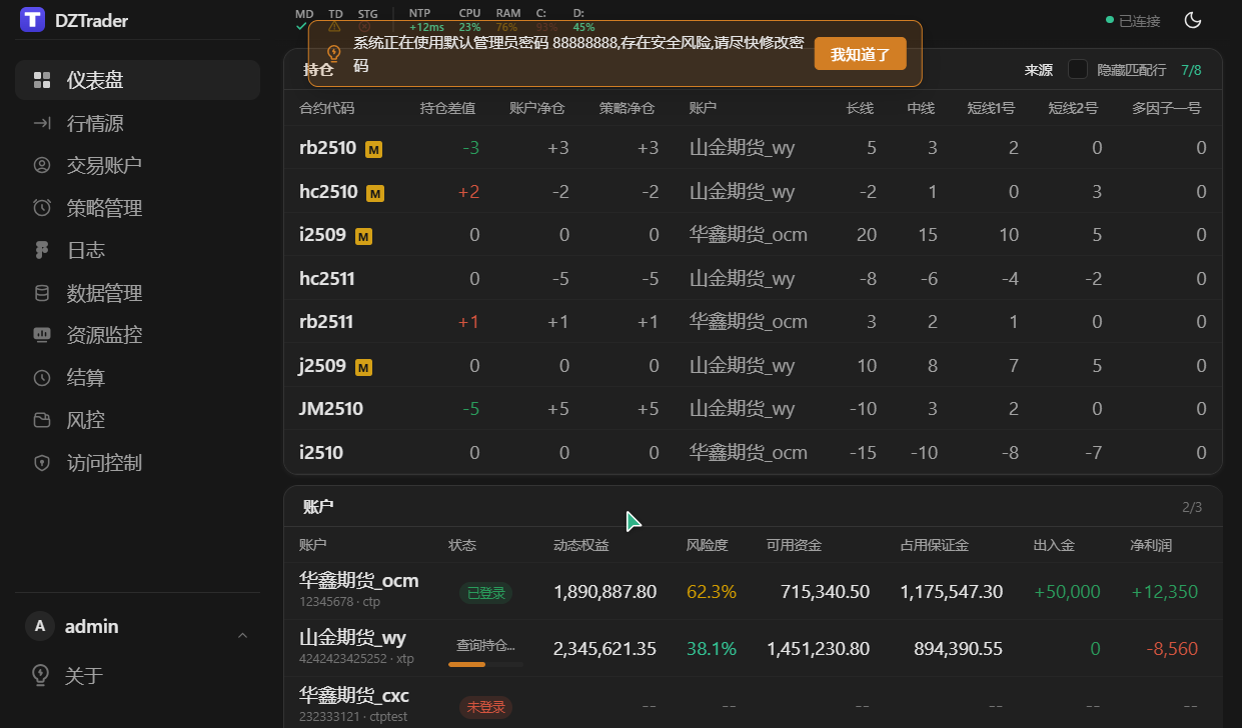
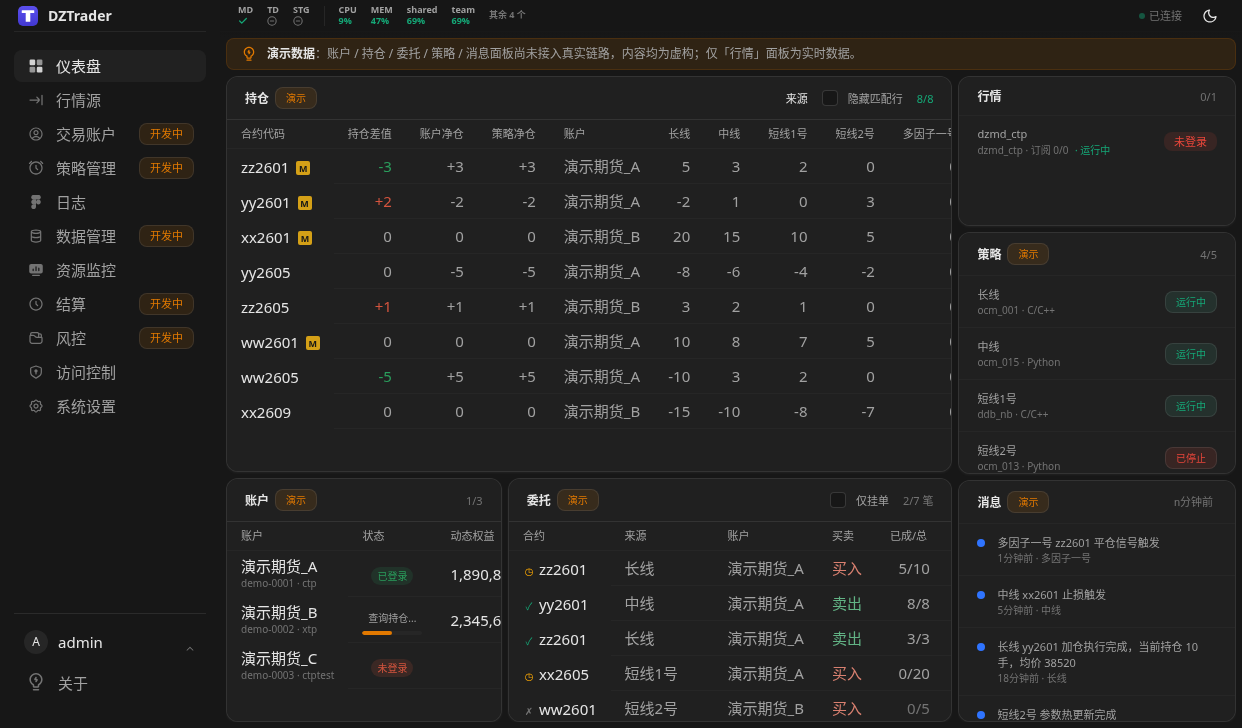
fix(webui): 仪表盘演示数据标识与聚合数自洽（#200）
仪表盘五个面板（账户 / 持仓 / 委托 / 策略 / 消息）仍使用原型 mock 数据，
但页面没有任何演示标识，且聚合数与展示行互相矛盾，容易被误读为真实账户：

- 首屏常驻「演示数据」横幅，五个面板标题各带「演示」标签；行情面板是真实
  数据，不标注
- 券商名改虚构（演示期货_A/B/C）、账户号改 demo-*、合约代码改 zz/yy/xx/ww
  等虚构代码，不再出现真实期货公司与真实合约
- 聚合数一律由行数据派生：账户 2/3→1/3、持仓 7/8→8/8、委托 2/12→2/7、
  策略 5/5→4/5（与「1 已停止」一致），底部汇总同源派生
- README 仪表盘截图更新为带演示横幅的版本，图注标明演示数据

补齐 DashboardView.spec.ts：断言演示横幅与逐面板标识、真实券商/合约不出现、
五个聚合数与展示行自洽。

Refs: #200, #6（真实数据接线另立 spec）

diff --git a/apps/webui/frontend/src/views/DashboardView.vue b/apps/webui/frontend/src/views/DashboardView.vue
@@ -1,6 +1,7 @@
 <script setup lang="ts">
 import { ref, computed, onUnmounted, type Ref } from 'vue'
 import StatusIndicator from '@/components/shared/StatusIndicator.vue'
+import Icon from '@/components/shared/Icon.vue'
 import { processStateText, processStateColor } from '@/composables/useProcessState'
 import { useMarketSourcesStore } from '@/stores/marketSources'
 
@@ -75,35 +76,42 @@ interface MessageRow {
   source: string
 }
 
-// === Mock data (from main.html prototype) ===
+// === 演示数据（issue #200）===
+// 账户 / 持仓 / 委托 / 策略 / 消息五个面板的交易数据链路尚未建立
+// （见 issue #6：TdDataService 未暴露 REST/WS）。此处保留原型布局，
+// 但满足三条约束：
+//   1) 页面永久可见地标注「演示数据」（横幅 + 逐面板 ds-tag）；
+//   2) 券商名 / 账户号 / 合约代码全部虚构，不得与真实期货公司或真实合约撞名；
+//   3) 面板聚合数一律由下列行数据计算，禁止硬编码（历史版本存在 2/3、5/5 等矛盾数字）。
+// 接入真实数据后本块整体删除（另立 spec 票承接）。
 const strategyNames = ['长线', '中线', '短线1号', '短线2号', '多因子一号']
 
 const positions: PositionRow[] = [
-  { code: 'rb2510', isMain: true, diff: -3, netPos: 3, stratNet: 3, account: '山金期货_wy', strategies: [5, 3, 2, 0, 0] },
-  { code: 'hc2510', isMain: true, diff: 2, netPos: -2, stratNet: -2, account: '山金期货_wy', strategies: [-2, 1, 0, 3, 0] },
-  { code: 'i2509', isMain: true, diff: 0, netPos: 0, stratNet: 0, account: '华鑫期货_ocm', strategies: [20, 15, 10, 5, 0] },
-  { code: 'hc2511', isMain: false, diff: 0, netPos: -5, stratNet: -5, account: '山金期货_wy', strategies: [-8, -6, -4, -2, 0] },
-  { code: 'rb2511', isMain: false, diff: 1, netPos: 1, stratNet: 1, account: '华鑫期货_ocm', strategies: [3, 2, 1, 0, 0] },
-  { code: 'j2509', isMain: true, diff: 0, netPos: 0, stratNet: 0, account: '山金期货_wy', strategies: [10, 8, 7, 5, 0] },
-  { code: 'JM2510', isMain: false, diff: -5, netPos: 5, stratNet: 5, account: '山金期货_wy', strategies: [-10, 3, 2, 0, 0] },
-  { code: 'i2510', isMain: false, diff: 0, netPos: 0, stratNet: 0, account: '华鑫期货_ocm', strategies: [-15, -10, -8, -7, 0] },
+  { code: 'zz2601', isMain: true, diff: -3, netPos: 3, stratNet: 3, account: '演示期货_A', strategies: [5, 3, 2, 0, 0] },
+  { code: 'yy2601', isMain: true, diff: 2, netPos: -2, stratNet: -2, account: '演示期货_A', strategies: [-2, 1, 0, 3, 0] },
+  { code: 'xx2601', isMain: true, diff: 0, netPos: 0, stratNet: 0, account: '演示期货_B', strategies: [20, 15, 10, 5, 0] },
+  { code: 'yy2605', isMain: false, diff: 0, netPos: -5, stratNet: -5, account: '演示期货_A', strategies: [-8, -6, -4, -2, 0] },
+  { code: 'zz2605', isMain: false, diff: 1, netPos: 1, stratNet: 1, account: '演示期货_B', strategies: [3, 2, 1, 0, 0] },
+  { code: 'ww2601', isMain: true, diff: 0, netPos: 0, stratNet: 0, account: '演示期货_A', strategies: [10, 8, 7, 5, 0] },
+  { code: 'ww2605', isMain: false, diff: -5, netPos: 5, stratNet: 5, account: '演示期货_A', strategies: [-10, 3, 2, 0, 0] },
+  { code: 'xx2609', isMain: false, diff: 0, netPos: 0, stratNet: 0, account: '演示期货_B', strategies: [-15, -10, -8, -7, 0] },
 ]
 
 const accounts: AccountRow[] = [
   {
-    name: '华鑫期货_ocm', sub: '12345678 · ctp', status: 'logged-in', loadingText: '',
+    name: '演示期货_A', sub: 'demo-0001 · ctp', status: 'logged-in', loadingText: '',
     equity: '1,890,887.80', risk: '62.3%', riskColor: 'var(--status-alert-default)',
     available: '715,340.50', margin: '1,175,547.30', deposit: '+50,000', profit: '+12,350',
     profitColor: '#2a9d5c', fee: '1,230.50',
   },
   {
-    name: '山金期货_wy', sub: '4242423425252 · xtp', status: 'loading', loadingText: '查询持仓...',
+    name: '演示期货_B', sub: 'demo-0002 · xtp', status: 'loading', loadingText: '查询持仓...',
     equity: '2,345,621.35', risk: '38.1%', riskColor: 'var(--status-success-default)',
     available: '1,451,230.80', margin: '894,390.55', deposit: '0', profit: '-8,560',
     profitColor: '#d4543e', fee: '3,560.20',
   },
   {
-    name: '华鑫期货_cxc', sub: '232333121 · ctptest', status: 'logged-out', loadingText: '',
+    name: '演示期货_C', sub: 'demo-0003 · ctptest', status: 'logged-out', loadingText: '',
     equity: '--', risk: '--', riskColor: 'var(--text-tertiary)',
     available: '--', margin: '--', deposit: '--', profit: '--',
     profitColor: 'var(--text-tertiary)', fee: '--',
@@ -111,13 +119,13 @@ const accounts: AccountRow[] = [
 ]
 
 const orders: OrderRow[] = [
-  { contract: 'rb2510', icon: 'pending', source: '长线', account: '华鑫期货_ocm', direction: 'buy', filled: '5/10', price: '3,680', avgPrice: '3,682', time: '14:05:23', tagText: '部分成交', tagClass: 'ds-tag--alert', rowClass: '' },
-  { contract: 'hc2510', icon: 'filled', source: '中线', account: '山金期货_wy', direction: 'sell', filled: '8/8', price: '3,915', avgPrice: '3,915', time: '14:03:12', tagText: '全部成交', tagClass: 'ds-tag--success', rowClass: '' },
-  { contract: 'rb2510', icon: 'filled', source: '长线', account: '华鑫期货_ocm', direction: 'sell', filled: '3/3', price: '3,695', avgPrice: '3,694', time: '14:01:45', tagText: '全部成交', tagClass: 'ds-tag--success', rowClass: '' },
-  { contract: 'i2609', icon: 'pending', source: '短线1号', account: '山金期货_wy', direction: 'buy', filled: '0/20', price: '785.5', avgPrice: '--', time: '13:58:30', tagText: '未成交', tagClass: '', rowClass: '' },
-  { contract: 'hc2501', icon: 'cancelled', source: '短线2号', account: '华鑫期货_ocm', direction: 'buy', filled: '0/5', price: '3,720', avgPrice: '--', time: '13:50:22', tagText: '已撤单', tagClass: '', rowClass: 'order-row--cancelled' },
-  { contract: 'j2601', icon: 'rejected', source: '多因子一号', account: '山金期货_wy', direction: 'sell', filled: '0/10', price: '2,350', avgPrice: '--', time: '13:45:10', tagText: '废单', tagClass: 'ds-tag--danger', rowClass: 'order-row--rejected' },
-  { contract: 'hc2510', icon: 'filled', source: '多因子一号', account: '华鑫期货_ocm', direction: 'buy', filled: '10/10', price: '3,908', avgPrice: '3,907', time: '13:55:18', tagText: '全部成交', tagClass: 'ds-tag--success', rowClass: '' },
+  { contract: 'zz2601', icon: 'pending', source: '长线', account: '演示期货_A', direction: 'buy', filled: '5/10', price: '3,680', avgPrice: '3,682', time: '14:05:23', tagText: '部分成交', tagClass: 'ds-tag--alert', rowClass: '' },
+  { contract: 'yy2601', icon: 'filled', source: '中线', account: '演示期货_A', direction: 'sell', filled: '8/8', price: '3,915', avgPrice: '3,915', time: '14:03:12', tagText: '全部成交', tagClass: 'ds-tag--success', rowClass: '' },
+  { contract: 'zz2601', icon: 'filled', source: '长线', account: '演示期货_A', direction: 'sell', filled: '3/3', price: '3,695', avgPrice: '3,694', time: '14:01:45', tagText: '全部成交', tagClass: 'ds-tag--success', rowClass: '' },
+  { contract: 'xx2605', icon: 'pending', source: '短线1号', account: '演示期货_A', direction: 'buy', filled: '0/20', price: '785.5', avgPrice: '--', time: '13:58:30', tagText: '未成交', tagClass: '', rowClass: '' },
+  { contract: 'ww2601', icon: 'cancelled', source: '短线2号', account: '演示期货_B', direction: 'buy', filled: '0/5', price: '3,720', avgPrice: '--', time: '13:50:22', tagText: '已撤单', tagClass: '', rowClass: 'order-row--cancelled' },
+  { contract: 'ww2605', icon: 'rejected', source: '多因子一号', account: '演示期货_A', direction: 'sell', filled: '0/10', price: '2,350', avgPrice: '--', time: '13:45:10', tagText: '废单', tagClass: 'ds-tag--danger', rowClass: 'order-row--rejected' },
+  { contract: 'yy2601', icon: 'filled', source: '多因子一号', account: '演示期货_B', direction: 'buy', filled: '10/10', price: '3,908', avgPrice: '3,907', time: '13:55:18', tagText: '全部成交', tagClass: 'ds-tag--success', rowClass: '' },
 ]
 
 const strategyList: StrategyRow[] = [
@@ -129,16 +137,37 @@ const strategyList: StrategyRow[] = [
 ]
 
 const messages: MessageRow[] = [
-  { level: 'info', text: '多因子一号 rb2510 平仓信号触发', time: '1分钟前', source: '多因子一号' },
-  { level: 'info', text: '中线 i2509 止损触发', time: '5分钟前', source: '中线' },
-  { level: 'info', text: '长线 hc2510 加仓执行完成，当前持仓 10 手，均价 38520', time: '18分钟前', source: '长线' },
+  { level: 'info', text: '多因子一号 zz2601 平仓信号触发', time: '1分钟前', source: '多因子一号' },
+  { level: 'info', text: '中线 xx2601 止损触发', time: '5分钟前', source: '中线' },
+  { level: 'info', text: '长线 yy2601 加仓执行完成，当前持仓 10 手，均价 38520', time: '18分钟前', source: '长线' },
   { level: 'info', text: '短线2号 参数热更新完成', time: '32分钟前', source: '短线2号' },
   { level: 'warning', text: '行情源 CTP 断线重连成功，已补发 12 笔行情快照', time: '1小时前', source: 'md_ctp' },
-  { level: 'error', text: '螺纹钢套利 rb2510 订单被拒：超出可开仓手数限制', time: '2小时前', source: '短线1号' },
+  { level: 'error', text: '演示品种套利 zz2601 订单被拒：超出可开仓手数限制', time: '2小时前', source: '短线1号' },
   { level: 'info', text: '账户权益更新', time: '3小时前', source: 'account_ctp' },
   { level: 'warning', text: '期货备用登录超时，30秒后重试', time: '5小时前', source: 'account_ctp' },
-  { level: 'info', text: '短线1号 JM2510 开仓，方向：空，手数：5，委托价 1580', time: '6小时前', source: '短线1号' },
+  { level: 'info', text: '短线1号 ww2605 开仓，方向：空，手数：5，委托价 1580', time: '6小时前', source: '短线1号' },
 ]
+
+// === 面板聚合数：一律由上面的演示行计算（issue #200）===
+// 历史版本硬编码 2/3、7/8、2/12、5/5 与展示行互相矛盾；此处改为派生，
+// 行数据变化时聚合数自动跟随，不可能再漂移。
+const accountAggregate = computed(
+  () => `${accounts.filter(a => a.status === 'logged-in').length}/${accounts.length}`,
+)
+// 「隐藏匹配行」筛选尚未实现：无行被隐藏，命中数恒等于总行数
+const matchedPositionCount = computed(() => positions.length)
+const positionAggregate = computed(
+  () => `${matchedPositionCount.value}/${positions.length}`,
+)
+const ordersAggregate = computed(
+  () => `${orders.filter(o => o.icon === 'pending').length}/${orders.length} 笔`,
+)
+const strategyAggregate = computed(
+  () => `${strategyList.filter(s => s.running).length}/${strategyList.length}`,
+)
+const strategyFooter = computed(
+  () => `总计: ${strategyList.length} 已加载, ${strategyList.filter(s => !s.running).length} 已停止`,
+)
 
 // === Splitter state (flex-grow values) ===
 const leftFlex = ref(1)
@@ -285,24 +314,43 @@ onUnmounted(() => {
         flex: 1,
         display: 'grid',
         gridTemplateColumns: `minmax(300px, ${leftFlex}fr) 6px minmax(200px, ${rightFlex}fr)`,
+        gridTemplateRows: 'auto minmax(0, 1fr)',
         overflow: 'hidden',
         padding: '6px',
         columnGap: '0',
+        rowGap: 'var(--spacer-6)',
       }"
     >
+      <!-- 演示数据横幅（issue #200）：首屏永久可见，与是否滚动 / 展开无关。
+           五个面板的交易数据链路尚未建立（issue #6），横幅是读者第一眼就应看到的事实声明，
+           不得改为可关闭 banner 或仅靠图注。仪表盘锁一屏高度，故压成单行紧凑条。 -->
+      <div
+        class="ds-alert ds-alert--warning dashboard-demo-banner"
+        data-test="dashboard-demo-banner"
+        role="status"
+      >
+        <span class="ds-alert__icon"><Icon name="Tips" :size="16" /></span>
+        <span class="dashboard-demo-banner__text">
+          <strong>演示数据</strong>：账户 / 持仓 / 委托 / 策略 / 消息面板尚未接入真实链路，内容均为虚构；仅「行情」面板为实时数据。
+        </span>
+      </div>
+
       <!-- Left Panel -->
       <div ref="leftPanelEl" class="dashboard-left-panel" :style="{ display: 'flex', flexDirection: 'column', overflow: 'hidden', minWidth: 0 }">
 
         <!-- Position Monitor -->
         <div class="dashboard-panel dashboard-panel--position" :style="{ flex: `${positionFlex} 1 0%`, minHeight: '120px', display: 'flex', flexDirection: 'column', overflow: 'hidden' }">
           <div :style="{ display: 'flex', alignItems: 'center', justifyContent: 'space-between', padding: 'var(--spacer-8) var(--spacer-16)', background: 'var(--bg-card)', borderBottom: '1px solid var(--border-neutral-l1)', flexShrink: 0 }">
-            <span :style="{ fontSize: 'var(--body-sm-font-size)', fontWeight: 'var(--font-weight-strong)', color: 'var(--text-default)' }">持仓</span>
+            <span :style="{ display: 'flex', alignItems: 'center', gap: 'var(--spacer-6)' }">
+              <span :style="{ fontSize: 'var(--body-sm-font-size)', fontWeight: 'var(--font-weight-strong)', color: 'var(--text-default)' }">持仓</span>
+              <span class="ds-tag ds-tag--warning" data-test="dashboard-demo-tag" :style="{ fontSize: '10px' }">演示</span>
+            </span>
             <div :style="{ display: 'flex', alignItems: 'center', gap: 'var(--spacer-12)', fontSize: 'var(--body-xs-font-size)' }">
               <span class="filter-dropdown__trigger" :style="{ cursor: 'pointer' }">来源</span>
               <label class="ds-check" :style="{ minHeight: 'auto', fontSize: 'var(--body-xs-font-size)', color: 'var(--text-secondary)' }">
                 <input type="checkbox"><span class="ds-check__box"></span> 隐藏匹配行
               </label>
-              <span :style="{ fontSize: 'var(--body-xs-font-size)', fontVariantNumeric: 'tabular-nums', color: 'var(--status-success-default)', cursor: 'default' }" title="匹配持仓数/总持仓数">7/8</span>
+              <span data-test="position-aggregate" :style="{ fontSize: 'var(--body-xs-font-size)', fontVariantNumeric: 'tabular-nums', color: 'var(--status-success-default)', cursor: 'default' }" title="匹配持仓数/总持仓数">{{ positionAggregate }}</span>
             </div>
           </div>
           <div class="auto-scroll" :style="{ flex: 1, overflow: 'auto', padding: 0 }">
@@ -343,8 +391,11 @@ onUnmounted(() => {
           <!-- Account Overview -->
           <div class="dashboard-panel dashboard-panel--account" :style="{ flex: `${accountFlex} 1 0%`, minWidth: '150px', minHeight: '100px', display: 'flex', flexDirection: 'column', overflow: 'hidden' }">
             <div :style="{ display: 'flex', alignItems: 'center', justifyContent: 'space-between', padding: 'var(--spacer-8) var(--spacer-16)', background: 'var(--bg-card)', borderBottom: '1px solid var(--border-neutral-l1)', flexShrink: 0 }">
-              <span :style="{ fontSize: 'var(--body-sm-font-size)', fontWeight: 'var(--font-weight-strong)', color: 'var(--text-default)' }">账户</span>
-              <span :style="{ fontSize: 'var(--body-xs-font-size)', fontVariantNumeric: 'tabular-nums', color: 'var(--text-tertiary)' }" title="已登录账户/总账户">2/3</span>
+              <span :style="{ display: 'flex', alignItems: 'center', gap: 'var(--spacer-6)' }">
+                <span :style="{ fontSize: 'var(--body-sm-font-size)', fontWeight: 'var(--font-weight-strong)', color: 'var(--text-default)' }">账户</span>
+                <span class="ds-tag ds-tag--warning" data-test="dashboard-demo-tag" :style="{ fontSize: '10px' }">演示</span>
+              </span>
+              <span data-test="account-aggregate" :style="{ fontSize: 'var(--body-xs-font-size)', fontVariantNumeric: 'tabular-nums', color: 'var(--text-tertiary)' }" title="已登录账户/总账户">{{ accountAggregate }}</span>
             </div>
             <div class="auto-scroll" :style="{ flex: 1, overflow: 'auto' }">
               <table class="ds-table ds-table--normal" :style="{ width: '100%', tableLayout: 'auto', whiteSpace: 'nowrap' }">
@@ -394,12 +445,15 @@ onUnmounted(() => {
           <!-- Orders -->
           <div class="dashboard-panel dashboard-panel--orders" :style="{ flex: `${orderFlex} 1 0%`, minWidth: '150px', minHeight: '100px', display: 'flex', flexDirection: 'column', overflow: 'hidden' }">
             <div :style="{ display: 'flex', alignItems: 'center', justifyContent: 'space-between', padding: 'var(--spacer-8) var(--spacer-16)', background: 'var(--bg-card)', borderBottom: '1px solid var(--border-neutral-l1)', flexShrink: 0 }">
-              <span :style="{ fontSize: 'var(--body-sm-font-size)', fontWeight: 'var(--font-weight-strong)', color: 'var(--text-default)' }">委托</span>
+              <span :style="{ display: 'flex', alignItems: 'center', gap: 'var(--spacer-6)' }">
+                <span :style="{ fontSize: 'var(--body-sm-font-size)', fontWeight: 'var(--font-weight-strong)', color: 'var(--text-default)' }">委托</span>
+                <span class="ds-tag ds-tag--warning" data-test="dashboard-demo-tag" :style="{ fontSize: '10px' }">演示</span>
+              </span>
               <div :style="{ display: 'flex', alignItems: 'center', gap: 'var(--spacer-12)', fontSize: 'var(--body-xs-font-size)' }">
                 <label class="ds-check" :style="{ minHeight: 'auto', fontSize: 'var(--body-xs-font-size)', color: 'var(--text-secondary)' }">
                   <input type="checkbox"><span class="ds-check__box"></span> 仅挂单
                 </label>
-                <span :style="{ fontVariantNumeric: 'tabular-nums', color: 'var(--text-tertiary)', cursor: 'pointer', userSelect: 'none' }" title="点击切换 笔数/手数">2/12 笔</span>
+                <span data-test="orders-aggregate" :style="{ fontVariantNumeric: 'tabular-nums', color: 'var(--text-tertiary)', cursor: 'pointer', userSelect: 'none' }" title="点击切换 笔数/手数">{{ ordersAggregate }}</span>
               </div>
             </div>
             <div class="auto-scroll" :style="{ flex: 1, overflow: 'auto' }">
@@ -485,8 +539,11 @@ onUnmounted(() => {
         <!-- Strategy List -->
         <div class="dashboard-panel" :style="{ flex: `${strategyFlex} 1 0%`, minHeight: '80px', overflow: 'hidden', display: 'flex', flexDirection: 'column' }">
           <div :style="{ display: 'flex', alignItems: 'center', justifyContent: 'space-between', padding: 'var(--spacer-8) var(--spacer-16)', background: 'var(--bg-card)', borderBottom: '1px solid var(--bg-base-secondary)', flexShrink: 0 }">
-            <span :style="{ fontSize: 'var(--body-sm-font-size)', fontWeight: 'var(--font-weight-strong)', color: 'var(--text-default)' }">策略</span>
-            <span :style="{ fontSize: 'var(--body-xs-font-size)', fontVariantNumeric: 'tabular-nums', color: 'var(--text-tertiary)' }" title="正常运行策略/总策略数">5/5</span>
+            <span :style="{ display: 'flex', alignItems: 'center', gap: 'var(--spacer-6)', minWidth: 0 }">
+              <span :style="{ fontSize: 'var(--body-sm-font-size)', fontWeight: 'var(--font-weight-strong)', color: 'var(--text-default)' }">策略</span>
+              <span class="ds-tag ds-tag--warning" data-test="dashboard-demo-tag" :style="{ fontSize: '10px' }">演示</span>
+            </span>
+            <span data-test="strategy-aggregate" :style="{ fontSize: 'var(--body-xs-font-size)', fontVariantNumeric: 'tabular-nums', color: 'var(--text-tertiary)' }" title="正常运行策略/总策略数">{{ strategyAggregate }}</span>
           </div>
           <div class="auto-scroll" :style="{ flex: 1, overflow: 'auto', fontSize: 'var(--body-xs-font-size)', fontVariantNumeric: 'tabular-nums' }">
             <div
@@ -503,7 +560,7 @@ onUnmounted(() => {
               </div>
               <span class="ds-tag" :class="strat.running ? 'ds-tag--success' : 'ds-tag--danger'" :style="{ fontSize: '10px', flexShrink: 0 }">{{ strat.running ? '运行中' : '已停止' }}</span>
             </div>
-            <div :style="{ padding: 'var(--spacer-8) var(--spacer-16)', fontSize: 'var(--body-xs-font-size)', color: 'var(--text-tertiary)', borderTop: '1px solid var(--bg-base-secondary)' }">总计: 5 已加载, 1 已停止</div>
+            <div :style="{ padding: 'var(--spacer-8) var(--spacer-16)', fontSize: 'var(--body-xs-font-size)', color: 'var(--text-tertiary)', borderTop: '1px solid var(--bg-base-secondary)' }" data-test="strategy-footer">{{ strategyFooter }}</div>
           </div>
         </div>
 
@@ -513,7 +570,10 @@ onUnmounted(() => {
         <!-- Messages -->
         <div class="dashboard-panel" :style="{ flex: `${msgFlex} 1 0%`, minHeight: '80px', overflow: 'hidden', display: 'flex', flexDirection: 'column' }">
           <div :style="{ display: 'flex', alignItems: 'center', justifyContent: 'space-between', padding: 'var(--spacer-8) var(--spacer-16)', background: 'var(--bg-card)', borderBottom: '1px solid var(--bg-base-secondary)', flexShrink: 0 }">
-            <span :style="{ fontSize: 'var(--body-sm-font-size)', fontWeight: 'var(--font-weight-strong)', color: 'var(--text-default)' }">消息</span>
+            <span :style="{ display: 'flex', alignItems: 'center', gap: 'var(--spacer-6)' }">
+              <span :style="{ fontSize: 'var(--body-sm-font-size)', fontWeight: 'var(--font-weight-strong)', color: 'var(--text-default)' }">消息</span>
+              <span class="ds-tag ds-tag--warning" data-test="dashboard-demo-tag" :style="{ fontSize: '10px' }">演示</span>
+            </span>
             <button type="button" :style="{ border: 'none', background: 'transparent', cursor: 'pointer', color: 'var(--text-tertiary)', padding: '0 4px', fontSize: 'var(--body-xs-font-size)', lineHeight: '20px' }" title="切换时间显示">n分钟前</button>
           </div>
           <div class="auto-scroll" :style="{ flex: 1, overflow: 'auto', fontSize: 'var(--body-xs-font-size)' }">

diff --git a/apps/webui/frontend/src/views/__tests__/DashboardView.spec.ts b/apps/webui/frontend/src/views/__tests__/DashboardView.spec.ts
@@ -8,6 +8,9 @@ import DashboardView from '../DashboardView.vue'
 
 // Dashboard 引用真实 StatusIndicator；断言页面展示的聚合数字与行情卡片，
 // 而不是测试自己刚写进 store 的值。
+//
+// issue #200：账户 / 持仓 / 委托 / 策略 / 消息五个面板仍是演示数据，
+// 必须永久可见地标注演示，且聚合数与展示行自洽（禁止硬编码矛盾数字）。
 
 const ctpSource = {
   id: 1,
@@ -47,6 +50,57 @@ describe('DashboardView', () => {
     expect(w.text()).toContain('CTP主行情')
     expect(w.text()).toContain('已登录')
 
+    w.unmount()
+  })
+
+  // ---- issue #200：演示数据标识与自洽 ----
+
+  it('首屏即标注演示数据并点名未接真实链路的面板', () => {
+    const w = mount(DashboardView, { attachTo: document.body })
+    const banner = w.find('[data-test="dashboard-demo-banner"]')
+    expect(banner.exists()).toBe(true)
+    const text = banner.text()
+    expect(text).toContain('演示数据')
+    // 横幅正文要点名哪些面板尚未接入真实链路，读者不必猜测
+    for (const panel of ['账户', '持仓', '委托', '策略', '消息']) {
+      expect(text).toContain(panel)
+    }
+    w.unmount()
+  })
+
+  it('五个演示面板逐面板标注演示，行情面板（真实数据）不标注', () => {
+    const w = mount(DashboardView, { attachTo: document.body })
+    const tags = w.findAll('[data-test="dashboard-demo-tag"]')
+    expect(tags).toHaveLength(5)
+    expect(tags.every(tag => tag.text() === '演示')).toBe(true)
+    w.unmount()
+  })
+
+  it('不出现真实券商名与真实合约代码', () => {
+    const w = mount(DashboardView, { attachTo: document.body })
+    const text = w.text()
+    const realWorldValues = [
+      '华鑫期货', '山金期货',
+      'rb2510', 'hc2510', 'i2509', 'j2509', 'JM2510', 'rb2511', 'hc2511', 'i2510',
+      'i2609', 'hc2501', 'j2601',
+    ]
+    for (const real of realWorldValues) {
+      expect(text).not.toContain(real)
+    }
+    w.unmount()
+  })
+
+  it('聚合数与展示行自洽', () => {
+    const w = mount(DashboardView, { attachTo: document.body })
+    // 账户：3 个账户中仅 1 个已登录（旧值 2/3 与展示行矛盾）
+    expect(w.get('[data-test="account-aggregate"]').text()).toBe('1/3')
+    // 持仓：8 行；「隐藏匹配行」筛选尚未实现，命中数=总数
+    expect(w.get('[data-test="position-aggregate"]').text()).toBe('8/8')
+    // 委托：7 笔中 2 笔未成交（旧值 2/12 与 7 行矛盾）
+    expect(w.get('[data-test="orders-aggregate"]').text()).toBe('2/7 笔')
+    // 策略：5 个策略中 4 个运行中（旧值 5/5 与「1 已停止」矛盾）
+    expect(w.get('[data-test="strategy-aggregate"]').text()).toBe('4/5')
+    expect(w.get('[data-test="strategy-footer"]').text()).toBe('总计: 5 已加载, 1 已停止')
     w.unmount()
   })
 })

diff --git a/apps/webui/frontend/src/assets/css/dashboard.css b/apps/webui/frontend/src/assets/css/dashboard.css
@@ -262,6 +262,33 @@
   background: var(--bg-brand);
 }
 
+/* ===== 演示数据横幅（issue #200）=====
+   仪表盘是整页锁高的监控页（见文件头 P5-T4 规范），横幅必须单行紧凑，
+   且跨满 grid 两列、始终在首屏可见——不得折叠、不得进滚动区。 */
+.dashboard-demo-banner {
+  grid-column: 1 / -1;
+  align-items: center;
+  gap: var(--spacer-8);
+  padding: var(--spacer-6) var(--spacer-12);
+  border-radius: var(--radius-8);
+  background: var(--status-warning-surface-l1);
+  border-color: var(--status-warning-surface-l2);
+}
+.dashboard-demo-banner .ds-alert__icon {
+  margin-top: 0;
+  color: var(--status-warning-default);
+}
+.dashboard-demo-banner__text {
+  min-width: 0;
+  color: var(--text-secondary);
+  font-size: var(--body-sm-font-size);
+  line-height: var(--body-sm-line-height);
+}
+.dashboard-demo-banner__text strong {
+  color: var(--text-default);
+  font-weight: var(--font-weight-strong);
+}
+
 /* ===== 响应式布局 — 窄屏 + 矮屏 ===== */
 @media (max-width: 1024px), (max-height: 600px) {
   body {

diff --git a/README.md b/README.md
@@ -23,9 +23,11 @@
 
 ## 界面预览
 
-| 登录 | 仪表盘 | 日志 |
+| 登录 | 仪表盘（演示数据） | 日志 |
 |---|---|---|
 | ![登录](docs/images/screenshot-login.png) | ![仪表盘](docs/images/screenshot-dashboard.png) | ![日志](docs/images/screenshot-logs.png) |
+
+> 仪表盘截图中的**账户 / 持仓 / 委托 / 策略 / 消息为演示数据**——页面顶部有常驻「演示数据」横幅，五个面板各带「演示」标签；交易数据链路尚未接入，真实数据由 #6 承接。仅「行情」面板为实时数据。
 
 ## 前置条件
 
